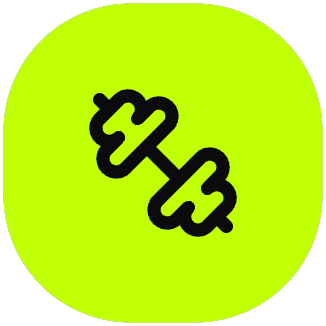
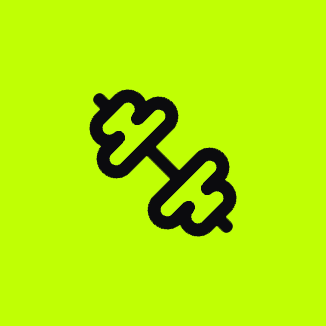
Changes

diff --git a/index.html b/index.html
@@ -36,8 +36,7 @@
     <meta name="twitter:creator" content="@FitConnect" />
 
     <!-- Favicons -->
-    <link rel="icon" type="image/svg+xml" href="/favicon.svg" />
-    <link rel="icon" type="image/x-icon" href="/favicon.ico" />
+    <link rel="icon" type="image/png" href="/favicon.png" />
     <link rel="apple-touch-icon" sizes="180x180" href="/apple-touch-icon.png" />
     <link rel="manifest" href="/manifest.json" />
     
